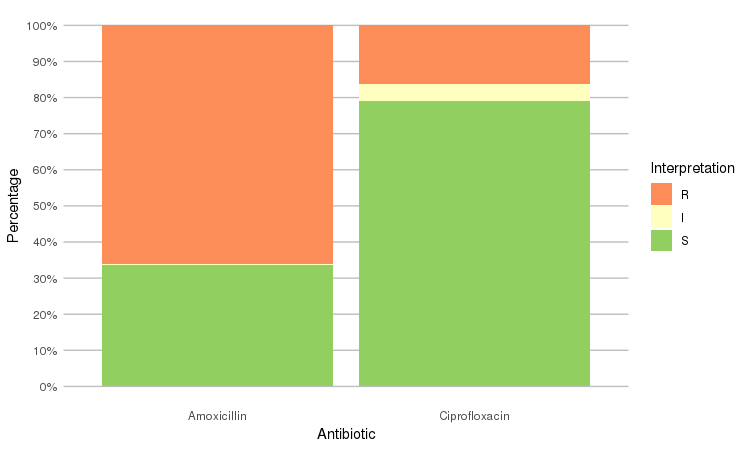
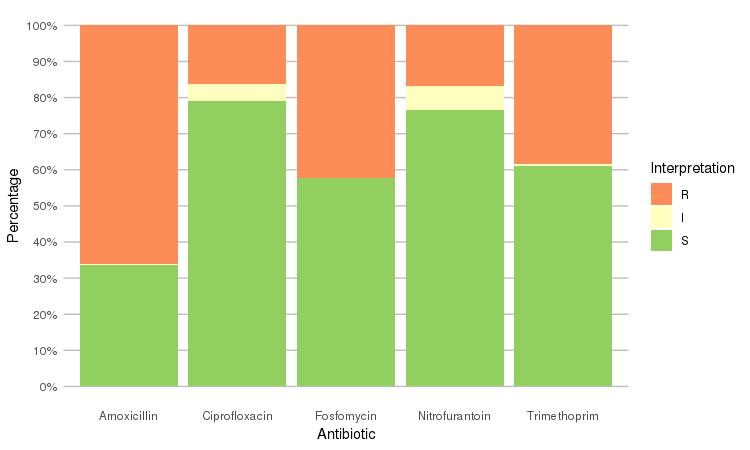
ggplot_rsi example update, more unit tests

diff --git a/NEWS.md b/NEWS.md
@@ -6,7 +6,7 @@
 * Function `is.rsi.eligible` to check for columns that have valid antimicrobial results, but do not have the `rsi` class yet. Transform the columns of your raw data with: `data %>% mutate_if(is.rsi.eligible, as.rsi)`
 * Functions `as.atc` and `is.atc` to transform/look up antibiotic ATC codes as defined by the WHO. The existing function `guess_atc` is now an alias of `as.atc`.
 * Aliases for existing function `mo_property`: `mo_aerobic`, `mo_family`, `mo_fullname`, `mo_genus`, `mo_gramstain`, `mo_gramstain_nl`, `mo_property`, `mo_species`, `mo_subspecies`, `mo_type`, `mo_type_nl`
-* Function `ab_property` and its aliases: `ab_certe`, `ab_official`, `ab_official_nl`, `ab_property`, `ab_trivial_nl`, `ab_umcg`
+* Function `ab_property` and its aliases: `ab_certe`, `ab_official`, `ab_official_nl`, `ab_property`, `ab_trivial_nl`, `ab_umcg`, `ab_tradenames`
 * Introduction to AMR as a vignette
 
 #### Changed
@@ -22,7 +22,7 @@
   # [1] "R01AX06" "J01CA04" "J01FA10" "J01CF05"
   ```
 * Removed function `ratio` as it is not really the scope of this package
-* Fix in `as.mic` for values ending in zeroes after a real number
+* Fix for `as.mic` for values ending in zeroes after a real number
 * Huge speed improvement for `as.bactid`
 * Added parameters `minimum` and `as_percent` to `portion_df`
 * Support for quasiquotation in the functions series `count_*` and `portions_*`, and `n_rsi`. This allows to check for more than 2 vectors or columns.
@@ -46,8 +46,7 @@
     my_list %>% freq(age)
     my_list %>% freq(sex)
     ```
-* Added "Furabid" as a trade name to Nitrofurantoine in the `antibiotics` data set
-    
+
 #### Other
 * More unit tests to ensure better integrity of functions
 

diff --git a/README.md b/README.md
@@ -151,16 +151,18 @@ library(dplyr)
 library(ggplot2)
 
 septic_patients %>%
-  select(amox, cipr) %>%
+  select(amox, nitr, fosf, trim, cipr) %>%
   ggplot_rsi()
 ```
 
 ![example_2_rsi](man/figures/rsi_example2.png)
 
+Adjust it with any parameter you know from the `ggplot2` package:
+
 ```r
 septic_patients %>%
-    select(amox, cipr) %>%
-    ggplot_rsi(x = "Interpretation", facet = "Antibiotic")
+  select(amox, nitr, fosf, trim, cipr) %>%
+  ggplot_rsi(width = 0.5, colour = "black", size = 1, linetype = 2, alpha = 0.25)
 ```
 
 ![example_3_rsi](man/figures/rsi_example3.png)
